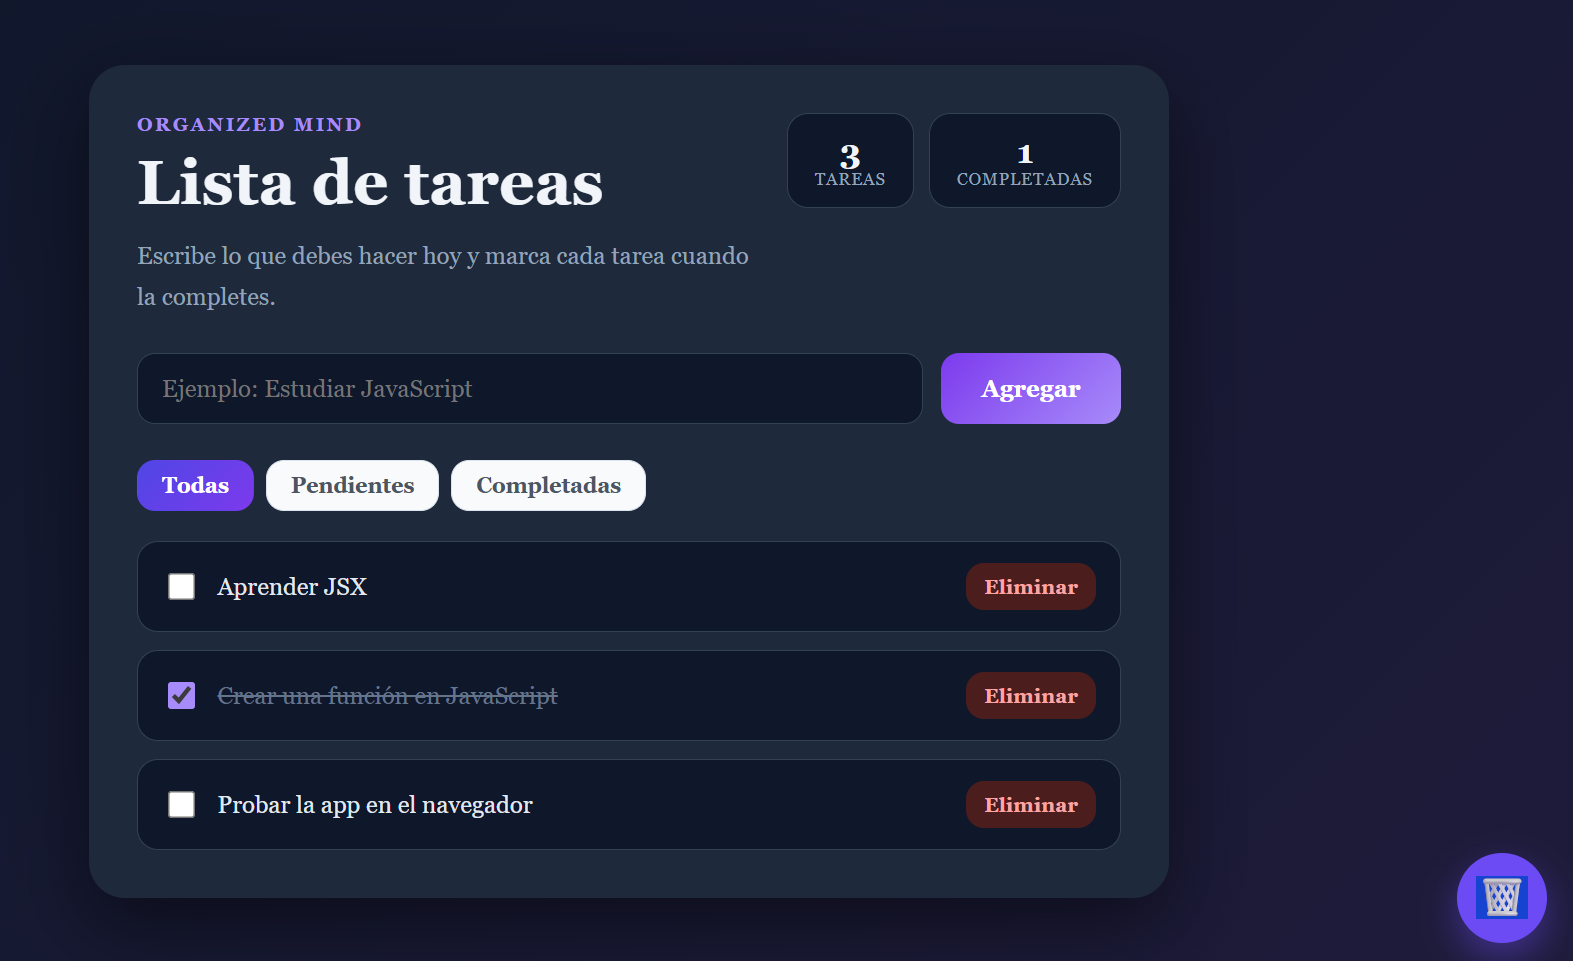
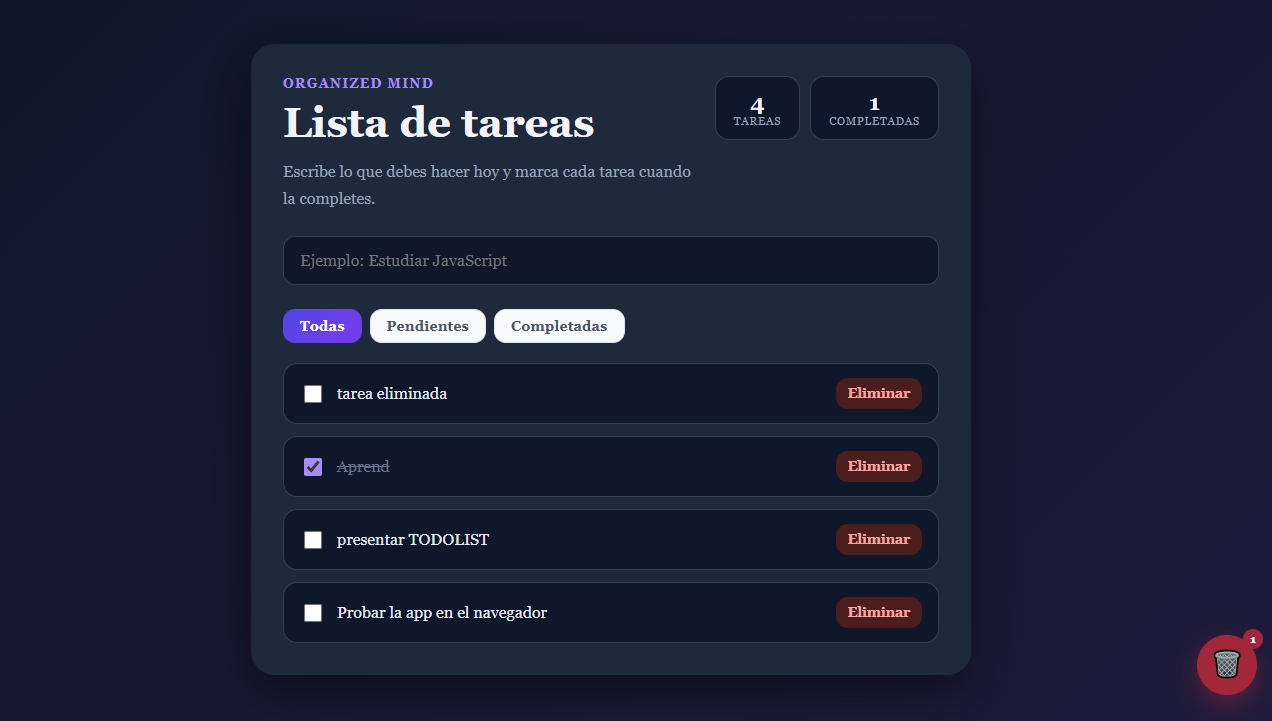
Trash can animation detail - README update

diff --git a/app/page.js b/app/page.js
@@ -26,6 +26,7 @@ export default function Home() {
 
   // showTrash controla si el panel de la caneca está abierto.
   const [showTrash, setShowTrash] = useState(false);
+  const [trashAnimationKey, setTrashAnimationKey] = useState(0);
 
   // editingId guarda el id de la tarea que se está editando (null si ninguna).
   // editingText guarda el texto temporal mientras se edita.
@@ -85,7 +86,7 @@ export default function Home() {
   // filter guarda cuál filtro está activo: "all", "pending" o "completed".
   const [filter, setFilter] = useState("all");
 
-  // Esta función se ejecuta cuando el usuario hace clic en "Agregar".
+  // Esta función se ejecuta al presionar Enter en el campo de nueva tarea.
   const handleAddTask = () => {
     // Si el texto está vacío o solo tiene espacios, no agregamos nada.
     if (!task.trim()) {
@@ -131,6 +132,7 @@ export default function Home() {
       { ...tareaAEliminar, deletedAt: Date.now() },
       ...papeleraAnterior,
     ]);
+    setTrashAnimationKey((currentKey) => currentKey + 1);
   };
 
   // Devuelve una tarea de la caneca a la lista activa.
@@ -238,10 +240,6 @@ export default function Home() {
             }}
             aria-label="Nueva tarea"
           />
-
-          <button type="button" onClick={handleAddTask}>
-            Agregar
-          </button>
         </div>
 
         <div className={styles.filters}>
@@ -328,11 +326,15 @@ export default function Home() {
       {/* Botón flotante de la caneca / papelera */}
       <button
         type="button"
-        className={styles.trashButton}
+        className={`${styles.trashButton} ${
+          deletedTasks.length > 0 ? styles.trashButtonHasItems : ""
+        }`}
         onClick={() => setShowTrash(true)}
         aria-label="Ver tareas eliminadas"
       >
-        <span className={styles.trashIcon}>🗑</span>
+        <span key={trashAnimationKey} className={styles.trashIcon}>
+          🗑
+        </span>
         {deletedTasks.length > 0 && (
           <span className={styles.trashBadge}>{deletedTasks.length}</span>
         )}

diff --git a/app/page.module.css b/app/page.module.css
@@ -82,13 +82,11 @@
 }
 
 .inputRow {
-  display: flex;
-  gap: 12px;
   margin-bottom: 24px;
 }
 
 .inputRow input {
-  flex: 1;
+  width: 100%;
   border: 1px solid #334155;
   border-radius: 12px;
   padding: 14px 16px;
@@ -104,7 +102,6 @@
   box-shadow: 0 0 0 4px rgba(167, 139, 250, 0.18);
 }
 
-.inputRow button,
 .deleteButton {
   border: none;
   border-radius: 12px;
@@ -113,14 +110,6 @@
   transition: transform 0.15s ease, opacity 0.15s ease;
 }
 
-.inputRow button {
-  background: linear-gradient(135deg, #7c3aed, #a78bfa);
-  color: white;
-  padding: 0 20px;
-  min-width: 120px;
-}
-
-.inputRow button:hover,
 .deleteButton:hover {
   transform: translateY(-1px);
 }
@@ -258,10 +247,6 @@
     flex: 1;
   }
 
-  .inputRow {
-    flex-direction: column;
-  }
-
   .filters {
     flex-wrap: wrap;
   }
@@ -295,6 +280,16 @@
   z-index: 40;
 }
 
+.trashButtonHasItems {
+  background: #a3273b;
+  box-shadow: 0 10px 25px rgba(163, 39, 59, 0.45);
+}
+
+.trashButtonHasItems:hover {
+  background: #bd354d;
+  box-shadow: 0 14px 30px rgba(163, 39, 59, 0.55);
+}
+
 .trashButton:hover {
   transform: translateY(-3px) scale(1.05);
   box-shadow: 0 14px 30px rgba(108, 75, 244, 0.55);
@@ -304,6 +299,24 @@
 .trashIcon {
   font-size: 1.6rem;
   line-height: 1;
+}
+
+.trashButtonHasItems .trashIcon {
+  animation: trashBounce 0.55s ease-out;
+}
+
+@keyframes trashBounce {
+  0% {
+    transform: translateY(-12px) rotate(-10deg) scale(0.8);
+  }
+
+  55% {
+    transform: translateY(3px) rotate(5deg) scale(1.1);
+  }
+
+  100% {
+    transform: translateY(0) rotate(0) scale(1);
+  }
 }
 
 .trashBadge {

diff --git a/README.md b/README.md
@@ -1,4 +1,7 @@
 # Mi primer ToDo en Next.js
+Contribuidores: Jose Aguilar Diaz, Jahzeel Celin Navarro, Cristian Castro
+
+Universidad de la Costa.
 
 Este proyecto es una versión muy sencilla y didáctica para que estudiantes principiantes aprendan a crear su primera aplicación con JavaScript y Next.js.
 
@@ -12,16 +15,17 @@ La idea es mostrar de forma clara cómo:
 
 ## Captura de ejemplo
 
-![Vista previa de la app de tareas](./public/todo-screenshot.svg)
+![Vista previa de la app de tareas](./public/todo-screenshot.png)
 
 ### Explicación de la pantalla
 
-La interfaz tiene cuatro partes principales:
+La interfaz tiene cinco partes principales:
 
 1. Título principal: indica que esta es una lista de tareas.
 2. Campo de texto: permite escribir una nueva tarea.
-3. Botón "Agregar": añade la tarea al listado.
+3. Tecla Enter: añade la tarea al listado desde el campo de texto.
 4. Lista de tareas: muestra cada actividad con opción de marcarla como completada o eliminarla.
+5. Papelera: permite consultar, restaurar o eliminar definitivamente las tareas eliminadas.
 
 Esto ayuda a explicar que una app de tareas no es solo "texto en pantalla", sino que también responde a la interacción del usuario.
 
@@ -100,14 +104,6 @@ Aquí se encuentra la lógica de la lista de tareas:
 - agregar tareas
 - completar tareas
 - eliminar tareas
-
----
-
-## Sugerencia de explicación para estudiantes
-
-Puedes decirles algo como:
-
-> Esta app parece simple, pero ya estamos usando conceptos básicos de JavaScript y React: variables, funciones, eventos, listas y estado. Eso es lo que hace que una aplicación web sea interactiva.
 
 ---
 
